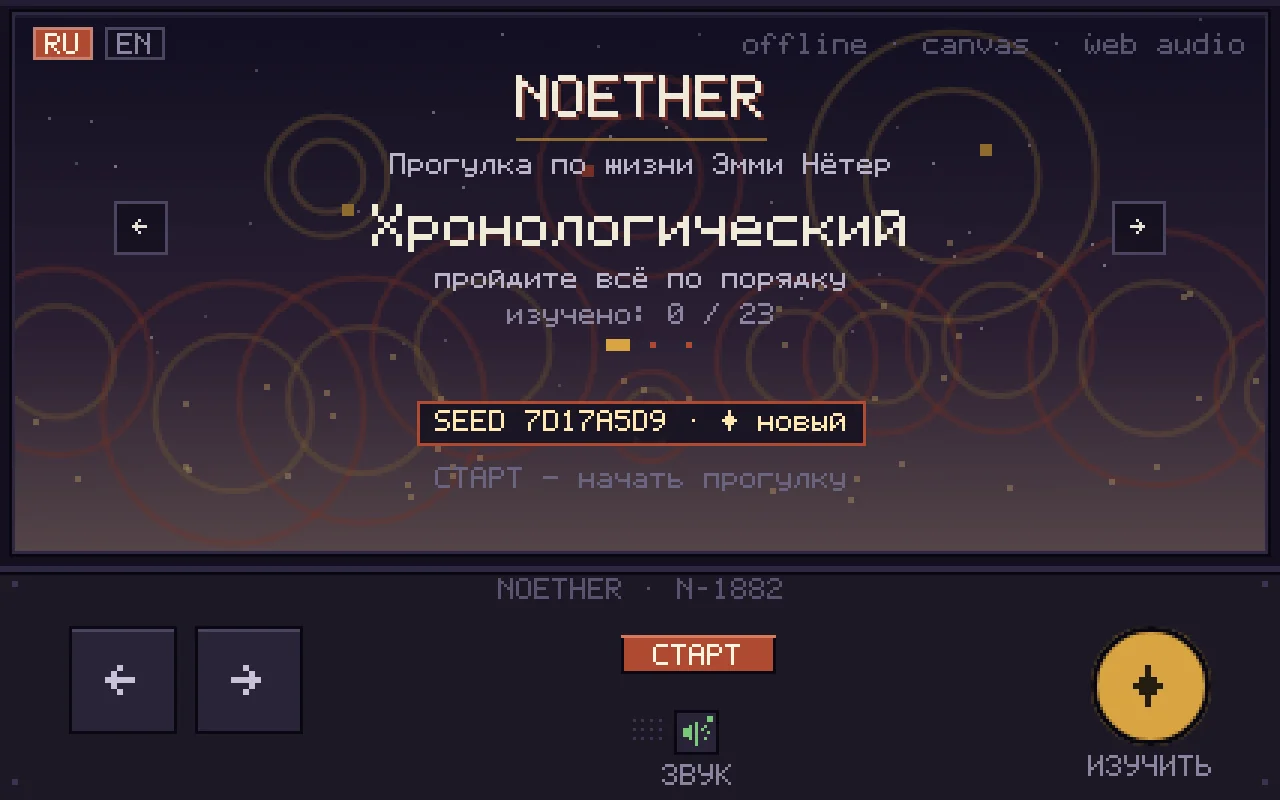
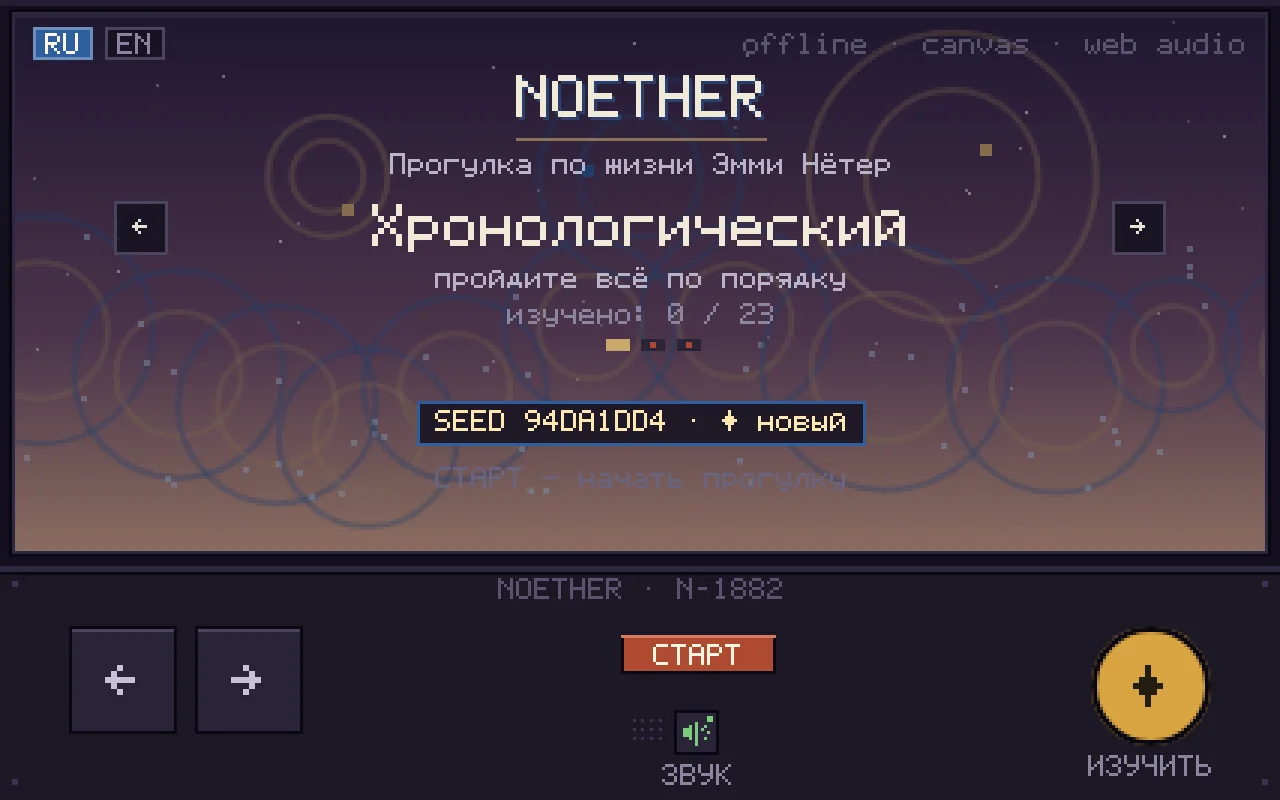
noether: переходы в уличные комнаты не зависали — initParticles падала с 'P is not defined' (P использовалась без объявления в outdoor-ветке частиц; страдали c1903, c1928, c1933b, b_sky, b_map); настенные окна не пересекаются с предметами — окно сдвигается в ближайший свободный зазор, при плотной ст

diff --git a/apps/noether/src/index.html b/apps/noether/src/index.html
@@ -1516,8 +1516,32 @@ function buildRoomCaches(Rr){
     Rr.windows=[];
     const nw=sc.win||1;
     for(let i=0;i<nw;i++){
-      const wx=Rr.roomW*(i+1)/(nw+1)*S;
+      const c0=Rr.roomW*(i+1)/(nw+1);
       const ww=1.1*S,wh=1.5*S,wtop=GY-2.25*S;
+      /* окно декоративное — держим его вне предметов и уже поставленных окон;
+         если стена забита и зазоров нет (например, b_school), ставим в позицию
+         с минимальным перекрытием */
+      const clearAt=cc=>cc>1.3&&cc<Rr.roomW-1.3
+        &&Rr.windows.every(w2=>Math.abs((w2.x+w2.w/2)/S-cc)>=(w2.w+ww)/(2*S)+0.3)
+        &&Rr.objs.every(ob=>(PROPS[ob.o.k]||PROPS.plaque).h<=0.7||Math.abs(ob.x-cc)>=((PROPS[ob.o.k]||PROPS.plaque).w+ww/S)/2+0.25);
+      const overlapAt=cc=>Rr.objs.reduce((s2,ob)=>{const pr=PROPS[ob.o.k]||PROPS.plaque;return pr.h<=0.75?s2:s2+Math.max(0,(pr.w+ww/S)/2-Math.abs(ob.x-cc));},0)
+        +Rr.windows.reduce((s2,w2)=>s2+Math.max(0,(w2.w/S+ww/S)/2-Math.abs((w2.x+w2.w/2)/S-cc)),0);
+      let cu=c0;
+      if(!clearAt(c0)){
+        let best=null;
+        for(let cc=1.3;cc<=Rr.roomW-1.3;cc+=0.15){
+          if(Rr.windows.some(w2=>Math.abs((w2.x+w2.w/2)/S-cc)<(w2.w+ww)/(2*S)+0.15))continue;
+          const ov=overlapAt(cc);
+          let mg=cc-1.3<Rr.roomW-1.3-cc?cc-1.3:Rr.roomW-1.3-cc;
+          for(const ob of Rr.objs){const pr=PROPS[ob.o.k]||PROPS.plaque;if(pr.h>0.75)mg=Math.min(mg,Math.abs(ob.x-cc)-(pr.w+ww/S)/2);}
+          for(const w2 of Rr.windows)mg=Math.min(mg,Math.abs((w2.x+w2.w/2)/S-cc)-(w2.w/S+ww/S)/2);
+          const dist=Math.abs(cc-c0);
+          /* лексикографика: мин. перекрытие → макс. зазор → ближе к исходной позиции */
+          if(best===null||ov<best.ov-1e-4||(ov<best.ov+1e-4&&(mg>best.mg+1e-4||(mg>best.mg-1e-4&&dist<best.dist-1e-4))))best={c:cc,ov,mg,dist};
+        }
+        if(best)cu=best.c;
+      }
+      const wx=cu*S;
       Rr.windows.push({x:wx-ww/2,y:wtop,w:ww,h:wh,open:rnd()<0.6});
       rg.clearRect(Math.round(wx-ww/2),Math.round(wtop),Math.round(ww),Math.round(wh));
     }
@@ -1559,7 +1583,7 @@ function buildRoomCaches(Rr){
   }
 }
 function initParticles(Rr){
-  const d=Rr.d,sc=Rr.sc;
+  const d=Rr.d,sc=Rr.sc,P=Rr.P;
   PARTS.precip=[];PARTS.dust=[];PARTS.spark=[];
   const rnd=mulberry32((save.seed^hashStr(Rr.room.id)^0x7777)>>>0);
   if(d.weather===2||d.weather===4){
